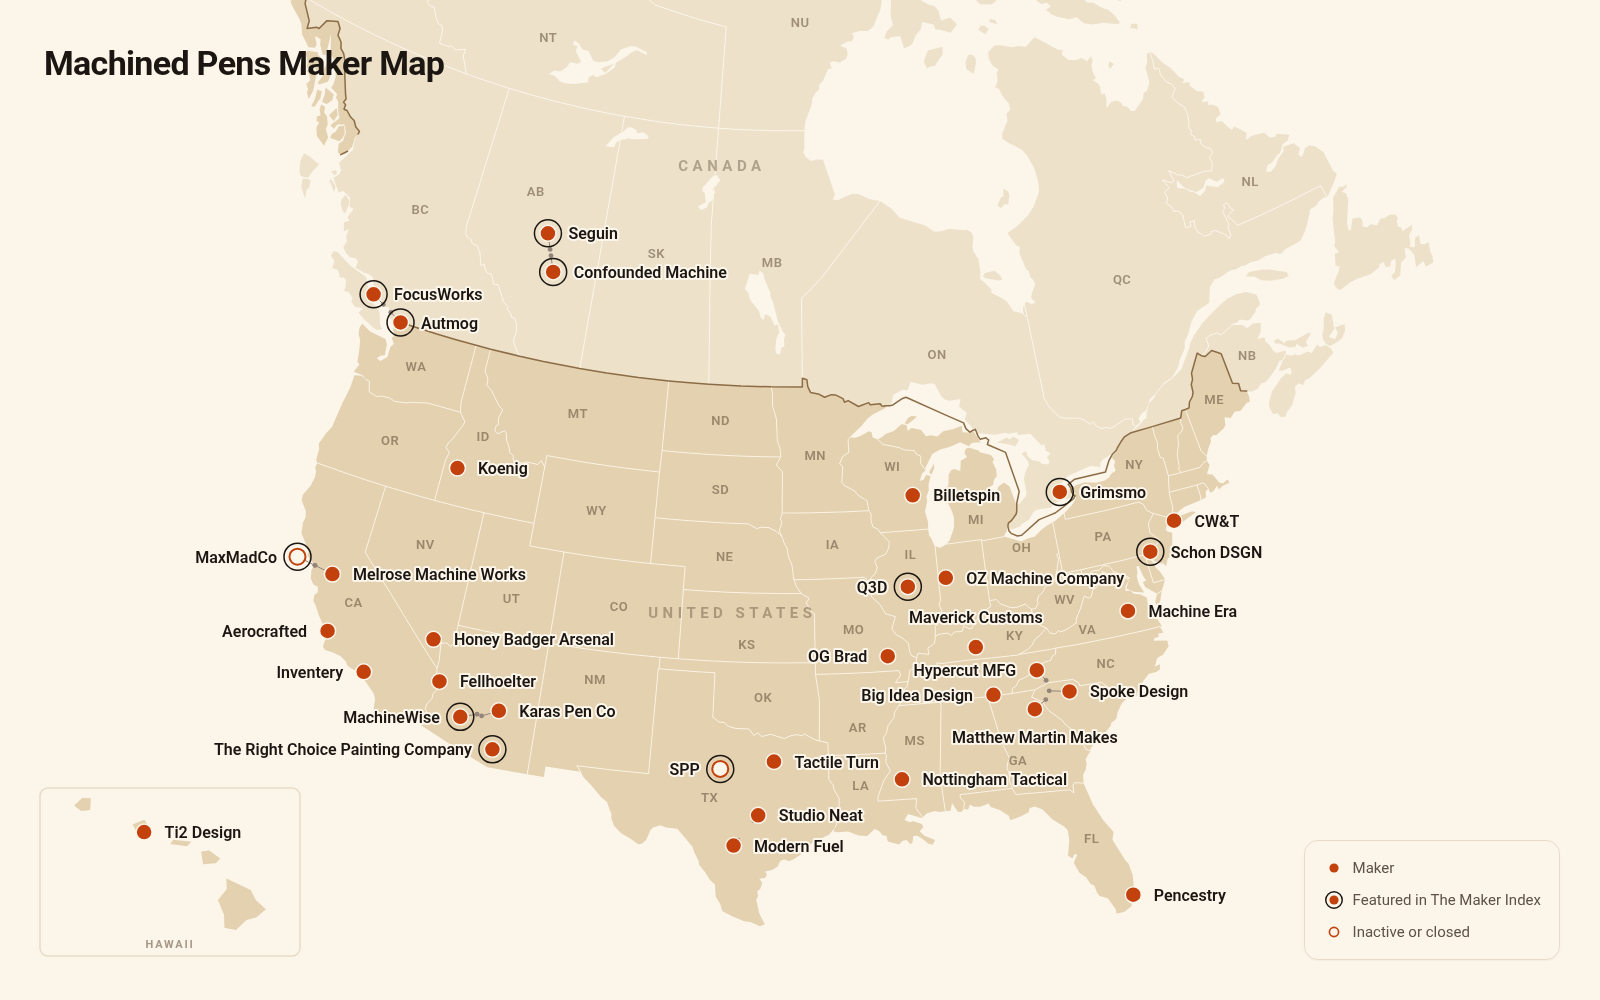
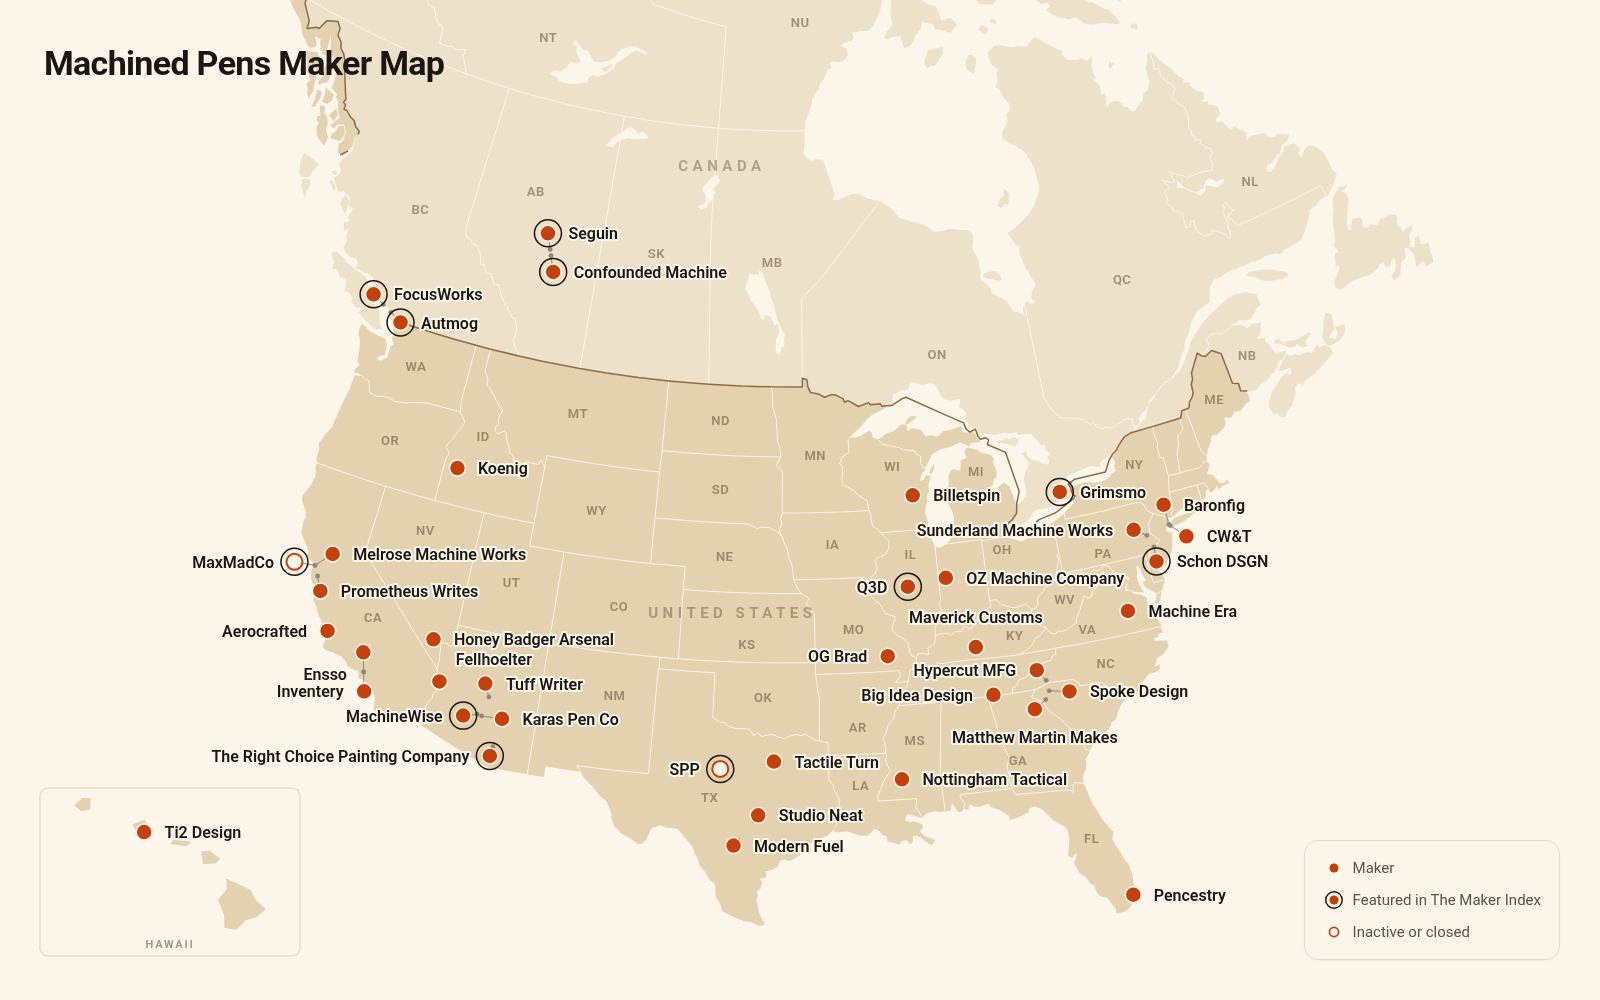
Add Sunderland Machine Works, Tuff Writer, Prometheus Writes, Baronfig, Ensso; 44 makers; ?v=20261120e

Changed region(s): [[0.125, 0.651, 0.4062, 0.775], [0.125, 0.527, 0.3438, 0.62], [0.5625, 0.496, 0.7812, 0.589]]

diff --git a/index.html b/index.html
@@ -19,7 +19,7 @@
       if (["light", "dark", "bold"].indexOf(t) >= 0) document.documentElement.setAttribute("data-theme", t);
     })();
   </script>
-  <link rel="stylesheet" href="style.css?v=20261120d">
+  <link rel="stylesheet" href="style.css?v=20261120e">
 </head>
 <body>
   <a class="skip" href="#maker-list">Skip to the list of makers</a>
@@ -199,10 +199,10 @@
 
   <noscript><p class="noscript">The map needs JavaScript. You can read <a href="https://machinedpens.substack.com/p/the-maker-index-all-makers">The Maker Index</a> on <a href="https://machinedpens.substack.com">Machined Pens</a>.</p></noscript>
 
-  <script src="vendor/d3.min.js?v=20261120d"></script>
-  <script src="vendor/topojson-client.min.js?v=20261120d"></script>
-  <script src="vendor/qrcode-generator.js?v=20261120d"></script>
-  <script src="map.js?v=20261120d"></script>
+  <script src="vendor/d3.min.js?v=20261120e"></script>
+  <script src="vendor/topojson-client.min.js?v=20261120e"></script>
+  <script src="vendor/qrcode-generator.js?v=20261120e"></script>
+  <script src="map.js?v=20261120e"></script>
   <script>
     (function () {
       if (/[?&]still=1\b/.test(location.search)) return;

diff --git a/map.js b/map.js
@@ -76,9 +76,9 @@
   var state = { makers: [], features: null, topo: null, worldTopo: null, worldFeatures: null, year: MAX_YEAR, active: null, playing: null, minYear: 2008, favorites: {}, favOnly: false, mapMode: "timeline", priceFilter: null, shared: false, listSort: "state", listQuery: "", listCountry: "", view: "home", focusCountry: null };
 
   Promise.all([
-    d3.json("makers.json?v=20261120d"),
-    d3.json("data/us-canada.topo.json?v=20261120d"),
-    d3.json("data/world-110m.topo.json?v=20261120d")
+    d3.json("makers.json?v=20261120e"),
+    d3.json("data/us-canada.topo.json?v=20261120e"),
+    d3.json("data/world-110m.topo.json?v=20261120e")
   ]).then(function (res) { init(res[0].makers, res[1], res[2]); })
     .catch(function (err) {
       console.error(err);
